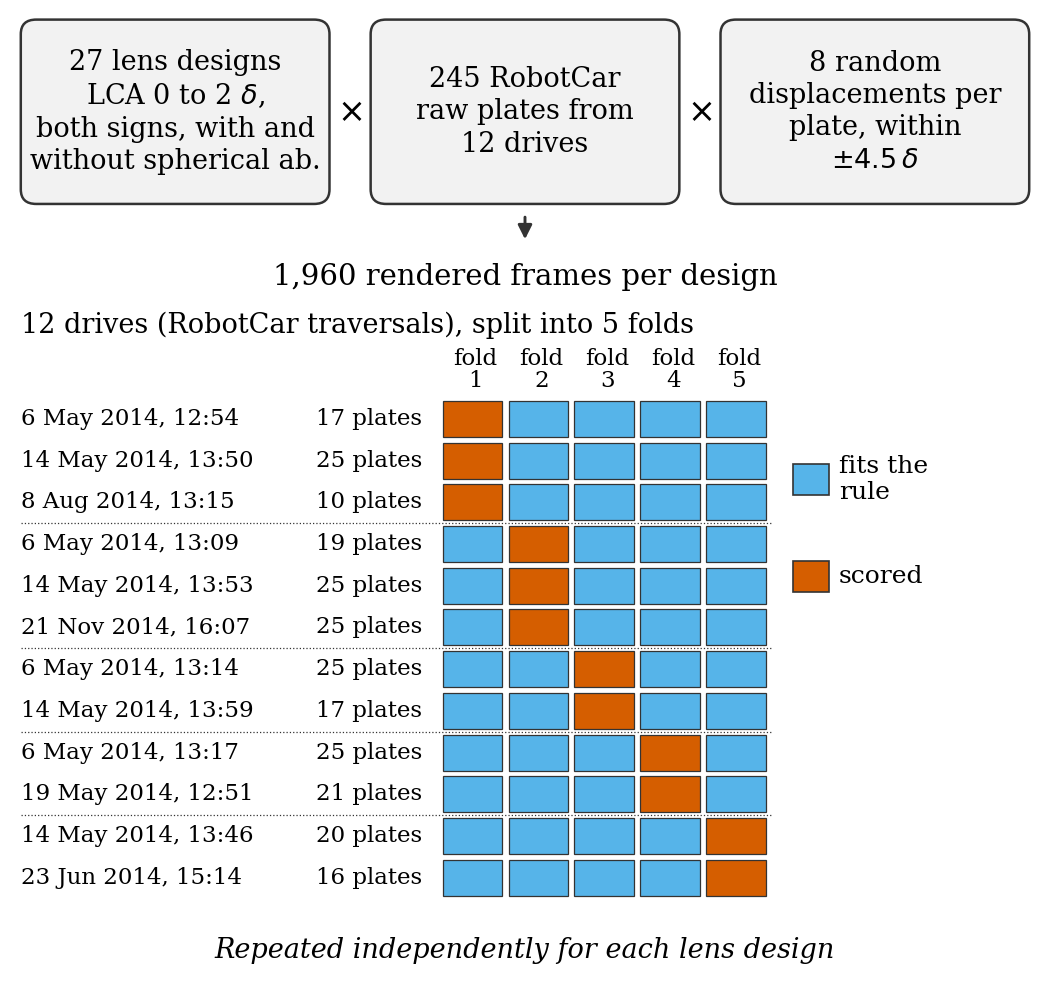
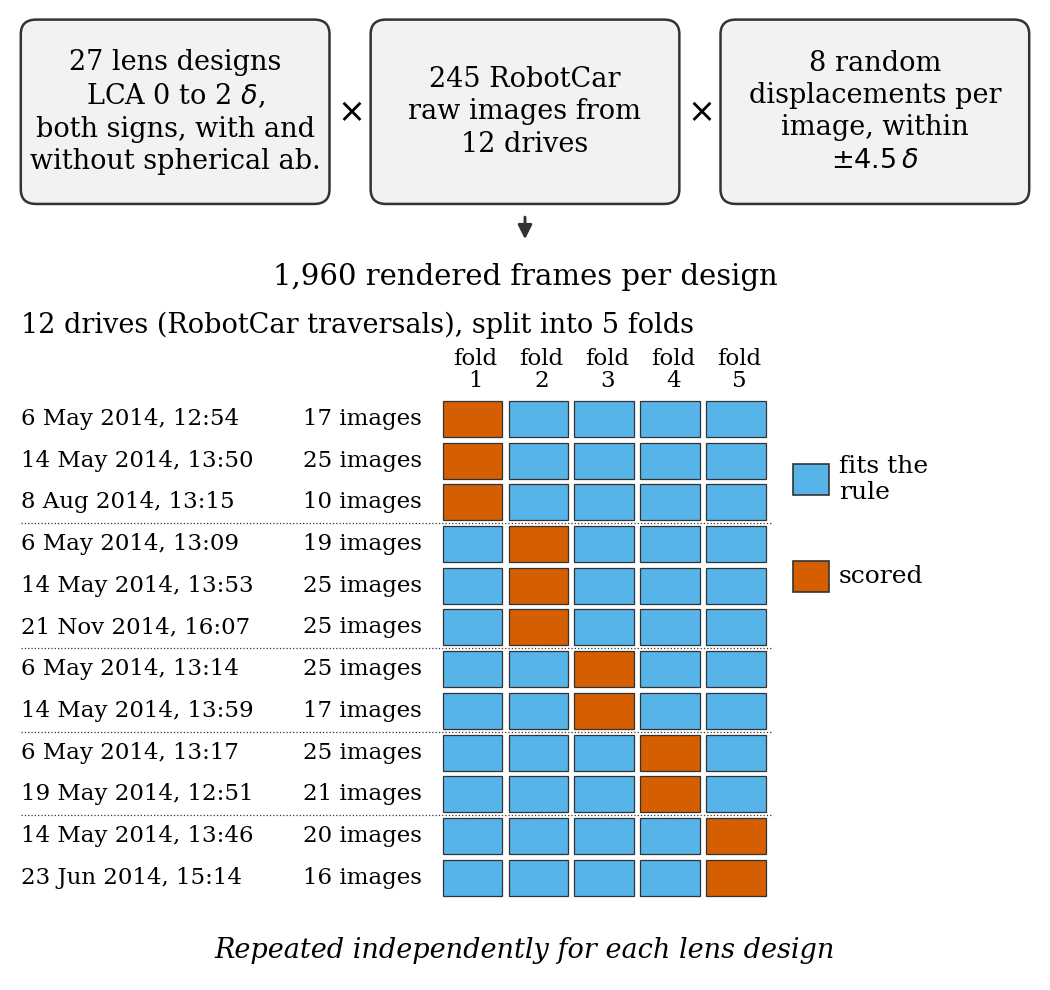
Design figure: 'image', not 'plate'

diff --git a/paper/ojvt/main.tex b/paper/ojvt/main.tex
@@ -75,9 +75,9 @@ The direction estimate is $\hat d=s\,\operatorname{sign}(\bar c-c_0)$, with sign
 The calibration levels differ in what is fitted, and on which data. At the \emph{rendered} level, $s$, $c_0$ and the curve come from rendered frames only. At the \emph{order} level, $s$ follows from the lens's channel order and only $c_0$ is fitted. At the \emph{calibration} level, $s$, $c_0$ and the curve are all fitted on calibration data of the same camera. $c_0$ and $s$ maximize training direction accuracy over a grid of training quantiles of $\bar c$. No parameter is learned beyond these: the method has no texture threshold and no learned representation, and the pooling statistic is fixed.
 
 \section{Experimental Design}
-Rendered frames start from raw Bayer plates of the Oxford RobotCar dataset \cite{maddern2017robotcar}: \MthreeNplates{} plates from \MthreeNtraversals{} traversals, each a separate recorded drive of the same route. Each Bayer plane is convolved with its channel's point-spread function before sensor noise is added \note{noise model: source and fit}. The frame then passes through one fixed pipeline: black level, white balance by grey world over the plate, bilinear demosaic, gamma 2.2 and 8-bit encoding, with no color-correction matrix, denoising, sharpening or tone mapping. The laboratory frames are processed from raw by the same code, with fixed white-balance gains measured on the sweep instead of grey world. The point-spread functions come from a scalar pupil model with third-order aberrations; the channel focus planes follow $z_k=-\kappa(\lambda_k-\lambda_g)$, with $\kappa$ the longitudinal chromatic aberration. The lens population (Table~\note{lens table}) shares f/2.0 optics and a 5.5\,\textmu m pixel ($\delta=\SynthDeltaUm$\,\textmu m). Because $\delta$ is the same for every design, the render cannot separate LCA/$\delta$ from LCA in \textmu m; reading the results in units of $\delta$ for other f-numbers and pixel pitches is an assumption, not a measured result. It is motivated by the Hopkins OTF \eqref{eq:otf}: at a fixed frequency in cycles per pixel, the defocus term $b=\pi\Delta z\,\nu/N$ depends on $\Delta z/\delta$ alone, but the diffraction term $a=2\nu\lambda N$ also changes with $N/c$, so the normalization holds only where diffraction changes little. The population varies $|z_r-z_b|/\delta$ over 0, 0.25, 0.5, 0.75, 1, 1.5 and 2, in both signs, with and without spherical aberration, plus a copy of an earlier reference design: \MthreeNlenses{} lenses in all. Every plate is rendered at eight displacements drawn uniformly from $\pm\MthreeDzMaxUm$\,\textmu m ($\pm\MthreeDzMaxDelta\,\delta$), so displacements are continuous rather than on a fixed ladder; the through-focus curve is built from 10\,\textmu m bins of training frames. Scoring uses five folds split by traversal, so no frame of a test drive appears in training (Fig.~\ref{fig:design}); because every drive covers the same route, the same streets can still appear in training frames from other drives.
+Rendered frames start from raw Bayer plates of the Oxford RobotCar dataset \cite{maddern2017robotcar}: \MthreeNplates{} raw images from \MthreeNtraversals{} traversals, each a separate recorded drive of the same route. Each Bayer plane is convolved with its channel's point-spread function before sensor noise is added \note{noise model: source and fit}. The frame then passes through one fixed pipeline: black level, white balance by grey world over the source image, bilinear demosaic, gamma 2.2 and 8-bit encoding, with no color-correction matrix, denoising, sharpening or tone mapping. The laboratory frames are processed from raw by the same code, with fixed white-balance gains measured on the sweep instead of grey world. The point-spread functions come from a scalar pupil model with third-order aberrations; the channel focus planes follow $z_k=-\kappa(\lambda_k-\lambda_g)$, with $\kappa$ the longitudinal chromatic aberration. The lens population (Table~\note{lens table}) shares f/2.0 optics and a 5.5\,\textmu m pixel ($\delta=\SynthDeltaUm$\,\textmu m). Because $\delta$ is the same for every design, the render cannot separate LCA/$\delta$ from LCA in \textmu m; reading the results in units of $\delta$ for other f-numbers and pixel pitches is an assumption, not a measured result. It is motivated by the Hopkins OTF \eqref{eq:otf}: at a fixed frequency in cycles per pixel, the defocus term $b=\pi\Delta z\,\nu/N$ depends on $\Delta z/\delta$ alone, but the diffraction term $a=2\nu\lambda N$ also changes with $N/c$, so the normalization holds only where diffraction changes little. The population varies $|z_r-z_b|/\delta$ over 0, 0.25, 0.5, 0.75, 1, 1.5 and 2, in both signs, with and without spherical aberration, plus a copy of an earlier reference design: \MthreeNlenses{} lenses in all. Every source image is rendered at eight displacements drawn uniformly from $\pm\MthreeDzMaxUm$\,\textmu m ($\pm\MthreeDzMaxDelta\,\delta$), so displacements are continuous rather than on a fixed ladder; the through-focus curve is built from 10\,\textmu m bins of training frames. Scoring uses five folds split by traversal, so no frame of a test drive appears in training (Fig.~\ref{fig:design}); because every drive covers the same route, the same streets can still appear in training frames from other drives.
 \begin{figure}[t]\centering\includegraphics[width=\columnwidth]{fig_design.pdf}
-\caption{Design of the rendered experiment. Each lens design is rendered on every RobotCar plate at eight random displacements. The traversals (separate recorded drives, labeled by start time) are split into five folds; each fold's drives are scored by a rule fitted on the drives of the other four, so a drive is never split between training and test.}\label{fig:design}\end{figure}
+\caption{Design of the rendered experiment. Each lens design is rendered on every RobotCar source image at eight random displacements. The traversals (separate recorded drives, labeled by start time) are split into five folds; each fold's drives are scored by a rule fitted on the drives of the other four, so a drive is never split between training and test.}\label{fig:design}\end{figure}
 The laboratory sweep uses a VS Technology VS-0618H1 lens (6\,mm, C-mount) at about f/2 on a FLIR Blackfly S BFS-U3-89S6C color camera, 80 equal servo steps over a 90$^\circ$ focus-ring rotation, with an ISO~12233 eSFR chart at about 30\,cm. The slanted-edge MTF was measured on the raw Bayer planes \cite{deegan2024demosaic}.
 The iris was set to about f/2 by eye. The sensor pitch, \LabPitchUm\,\textmu m, is taken from the rig record and not independently checked; with it, $\delta=\LabDeltaUm$\,\textmu m at f/\LabFnum. An exact defocus-OTF fit to the per-channel through-focus MTF gives \LabStepUm\,\textmu m per step at f/\LabFnum{} (residual-bootstrap 95\,\% interval \LabStepCiLo--\LabStepCiHi), that is \LabDeltaPerStep\,$\delta$ per step whatever the f-number, and a red--blue LCA of \LabLcaDelta\,$\delta$ (Fig.~\ref{fig:lab}). Across \LabNvariants{} fit variants (frame subsets, frequencies, one or three step scales), the step is \LabDeltaPerStepMin--\LabDeltaPerStepMax\,$\delta$ and the LCA \LabLcaMin--\LabLcaMax\,$\delta$; the LCA is the least certain lab quantity.
 The lab sweep is split into calibration (every fourth step, left chart half) and test (the rest); the test split is evaluated once, after the method is frozen.
@@ -97,7 +97,7 @@ What we ran departs from the protocol fixed before the experiments in eight ways
 
 \section{Results}
 \subsection{Direction accuracy against LCA (RQ1)}
-Each of the \MthreeNlenses{} designs is rendered on \MthreeNframes{} frames (every RobotCar plate at eight continuous displacements). Over the designs at each LCA level (both signs, with and without spherical aberration), direction accuracy is \MthreeLvlZeroDirMin--\MthreeLvlZeroDirMax{} at $0$, \MthreeLvlQuarterDirMin--\MthreeLvlQuarterDirMax{} at $0.25$, \MthreeLvlHalfDirMin--\MthreeLvlHalfDirMax{} at $0.5$, \MthreeLvlThreeQDirMin--\MthreeLvlThreeQDirMax{} at $0.75$, \MthreeLvlOneDirMin--\MthreeLvlOneDirMax{} at $1$, \MthreeLvlOneHalfDirMin--\MthreeLvlOneHalfDirMax{} at $1.5$ and \MthreeLvlTwoDirMin--\MthreeLvlTwoDirMax{} at $2\,\delta$ (Fig.~\ref{fig:m3}). The \MthreeLevelN{} level means increase monotonically (Spearman $\rho=\MthreeLevelRho$, exact one-sided permutation $p=\MthreeLevelP$). Over the individual designs, Spearman $\rho=\MthreeRho$ and Kendall $\tau=\MthreeTau$, with one-sided $p=\MthreeGateAP$ ($n=\MthreeNlenses$), so Gate~A passes. With no LCA it is near chance: \MthreeZeroDir{} (95\,\% interval \MthreeZeroDirLo--\MthreeZeroDirHi) without and \MthreeZeroSaDir{} (\MthreeZeroSaDirLo--\MthreeZeroSaDirHi) with spherical aberration, and at $0.25\,\delta$ it is \MthreeQuarterDirMin--\MthreeQuarterDirMax.
+Each of the \MthreeNlenses{} designs is rendered on \MthreeNframes{} frames (every RobotCar source image at eight continuous displacements). Over the designs at each LCA level (both signs, with and without spherical aberration), direction accuracy is \MthreeLvlZeroDirMin--\MthreeLvlZeroDirMax{} at $0$, \MthreeLvlQuarterDirMin--\MthreeLvlQuarterDirMax{} at $0.25$, \MthreeLvlHalfDirMin--\MthreeLvlHalfDirMax{} at $0.5$, \MthreeLvlThreeQDirMin--\MthreeLvlThreeQDirMax{} at $0.75$, \MthreeLvlOneDirMin--\MthreeLvlOneDirMax{} at $1$, \MthreeLvlOneHalfDirMin--\MthreeLvlOneHalfDirMax{} at $1.5$ and \MthreeLvlTwoDirMin--\MthreeLvlTwoDirMax{} at $2\,\delta$ (Fig.~\ref{fig:m3}). The \MthreeLevelN{} level means increase monotonically (Spearman $\rho=\MthreeLevelRho$, exact one-sided permutation $p=\MthreeLevelP$). Over the individual designs, Spearman $\rho=\MthreeRho$ and Kendall $\tau=\MthreeTau$, with one-sided $p=\MthreeGateAP$ ($n=\MthreeNlenses$), so Gate~A passes. With no LCA it is near chance: \MthreeZeroDir{} (95\,\% interval \MthreeZeroDirLo--\MthreeZeroDirHi) without and \MthreeZeroSaDir{} (\MthreeZeroSaDirLo--\MthreeZeroSaDirHi) with spherical aberration, and at $0.25\,\delta$ it is \MthreeQuarterDirMin--\MthreeQuarterDirMax.
 
 \subsection{Signed displacement (RQ2)}
 Test displacements are continuous and test drives are held out. Because each frame's displacement is drawn independently, a test displacement rounded to 0.1\,\textmu m can also occur in another fold's training frames; Gate~B is therefore scored on the \MthreeUnseenN{} of \MthreeNframes{} test frames per design whose rounded displacement occurs in no training fold. For the \MthreeGateBN{} designs with LCA above $1\,\delta$, MAE on these frames is \MthreeGateBMaeMin--\MthreeGateBMaeMax\,$\delta$, so Gate~B passes; on all test frames it is \MthreeGateBMaeAllMin--\MthreeGateBMaeAllMax\,$\delta$, and over all \MthreeNlenses{} designs the two differ by at most \MthreeUnseenMaxDiff\,$\delta$. At $0.25\,\delta$ the MAE on displacements absent from training is \MthreeQuarterMaeMin--\MthreeQuarterMaeMax\,$\delta$. For the Gate~B designs the upper ends of the traversal-clustered 95\,\% intervals of MAE on displacements absent from training reach at most \MthreeGateBCiHiMax\,$\delta$, and the worst single fold \MthreeGateBFoldMax\,$\delta$. The remaining figures in this subsection use all test frames. For the design with LCA $1.8\,\delta$ (Fig.~\ref{fig:m2}), MAE is \MtwoMaeDelta\,$\delta$ (95\,\% interval \MtwoMaeCiLo--\MtwoMaeCiHi; \MtwoMaeUm\,\textmu m) and p90 \MtwoPninetyDelta\,$\delta$, and direction accuracy is \MtwoDirAll{} overall and \MtwoDirNear{} within $0.5\,\delta$ of focus. On a separate \MtwoSubsetN-frame render of the same design (not a subset of these frames), training on the nine-level ladder instead of continuous displacements gives the same error (\MtwoSubsetLadderMaeDelta{} against \MtwoSubsetMaeDelta\,$\delta$).

diff --git a/src/fig_design.py b/src/fig_design.py
@@ -47,8 +47,8 @@ def main():
 
     # population
     box(1, 80, 30, 19, f"{len(lenses)} lens designs\nLCA 0 to 2 $\\delta$,\nboth signs, with and\nwithout spherical ab.")
-    box(35, 80, 30, 19, f"{n_plates} RobotCar\nraw plates from\n{n_trav} drives")
-    box(69, 80, 30, 19, f"{k} random\ndisplacements per\nplate, within\n$\\pm{dz_max:.1f}\\,\\delta$")
+    box(35, 80, 30, 19, f"{n_plates} RobotCar\nraw images from\n{n_trav} drives")
+    box(69, 80, 30, 19, f"{k} random\ndisplacements per\nimage, within\n$\\pm{dz_max:.1f}\\,\\delta$")
     for x in (33, 67):
         ax.text(x, 89.5, r"$\times$", ha="center", va="center", fontsize=8)
     arrow((50, 79.5), (50, 75.5))
@@ -64,7 +64,7 @@ def main():
         y = top - (r + 1) * rh
         t = pd.Timestamp(pd.to_datetime(row.traversal, format="%Y-%m-%d-%H-%M-%S"))
         ax.text(1, y + rh / 2, t.strftime("%-d %b %Y, %H:%M"), va="center", fontsize=5.5)
-        ax.text(cx - 2, y + rh / 2, f"{row.n} plates", va="center", ha="right", fontsize=5.5)
+        ax.text(cx - 2, y + rh / 2, f"{row.n} images", va="center", ha="right", fontsize=5.5)
         for c in range(n_fold):
             ax.add_patch(Rectangle((cx + c * cw, y + 0.3), cw - 0.6, rh - 0.6,
                                    fc=TEST if row.fold == c else TRAIN, ec=EDGE, lw=0.3))

diff --git a/results/figures/FIGURES.md b/results/figures/FIGURES.md
@@ -10,4 +10,4 @@ Regenerate with `python src/figures.py --out results/figures` (needs `matplotlib
 | `fig4_m7_field` | `m7_field/m7_summary.csv`, `lab_squares_focus.csv` | M7. (a) Rendered Sony map: direction accuracy per field zone for a uniform centre PSF, for the field-varying PSF scored against nominal focus, and for the same scored against each zone's own focus. Nominal DZ units. (b) Lab chart squares: red − blue focus (δ) against field radius at the two SFR frequencies; exploratory. |
 | `fig5_m8_confounds` | `m8_confounds/*/m8_frames.csv` | M8, rendered in-focus confounds matched in gradient to a DZ +0.02 defocus. (a) Alarm rate (threshold at the 95th percentile of the held-out in-focus \|Δz\|) for synth_lcaP and Laikin, with 95 % traversal-bootstrap intervals. (b) synth_lcaP predicted Δz per frame (δ). |
 | `fig6_m6_illuminant` | `m6_illuminant/m6_frames.csv` | M6, simulation only, synth_lcaP copy calibrated on the nominal ladder. (a) Bias and (b) MAE of predicted Δz per illuminant (effective-wavelength shift) and white-balance-gain condition, with 95 % plate-bootstrap intervals. The open squares in (b) are the rungs within 0.45 δ of focus; the dashed line is Gate B's 1 δ. |
-| `fig_design` | `data/m3_lenses.csv`, `phase2/lenses/m3_ref/m2_displacement_frames.csv` (drawn by `src/fig_design.py`) | Design of the Phase 2 render: 27 designs × 245 plates (12 traversals) × 8 continuous displacements within ±4.5 δ = 1,960 frames per design; one row per traversal (recorded drive, labeled by start time) with its plate count; columns are the 5 folds (`physics_baseline.folds`), orange where the drive is scored, blue where it is used for fitting. All counts are read from the CSVs. |
+| `fig_design` | `data/m3_lenses.csv`, `phase2/lenses/m3_ref/m2_displacement_frames.csv` (drawn by `src/fig_design.py`) | Design of the Phase 2 render: 27 designs × 245 plates (12 traversals) × 8 continuous displacements within ±4.5 δ = 1,960 frames per design; one row per traversal (recorded drive, labeled by start time) with its image count; columns are the 5 folds (`physics_baseline.folds`), orange where the drive is scored, blue where it is used for fitting. All counts are read from the CSVs. |
